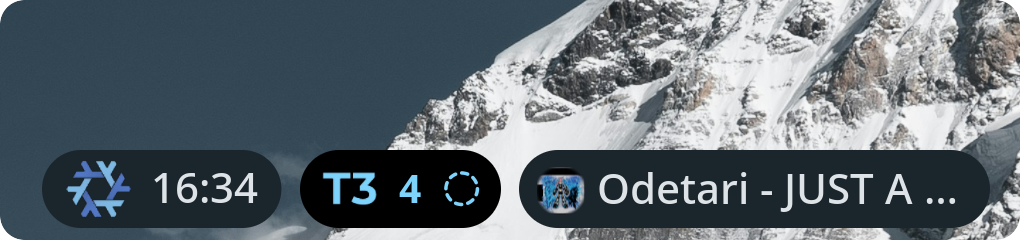
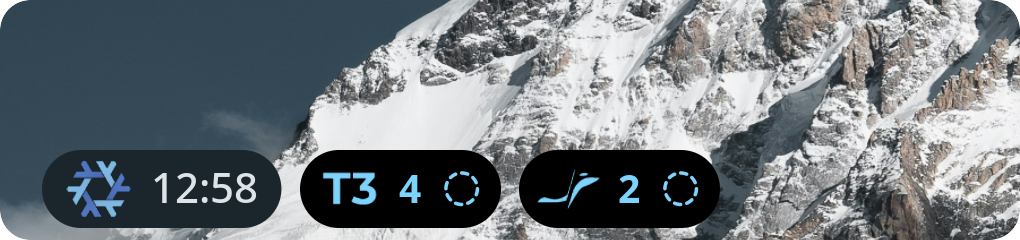
Show Orca support in the README
- Add Orca pill shots for working, approval and out of date
- Retake the bar shot with both pills
- Document the orca widget, its CLI requirement and how each pill counts
- Correct the T3 Code count description to match the thread-only count

diff --git a/README.md b/README.md
@@ -1,10 +1,10 @@
 <p align="center">
-  <img src="docs/images/bar.png" alt="Noctalia bar with Agent Pill between the clock and the media pill, showing 4 agents working" width="680">
+  <img src="docs/images/bar.png" alt="Noctalia bar with the T3 Code pill showing 4 agents and the Orca pill showing 2, next to the clock" width="680">
 </p>
 
 <h1 align="center">Agent Pill</h1>
 
-<p align="center">How many T3 Code agents are working, right on your Noctalia bar.</p>
+<p align="center">How many T3 Code and Orca agents are working, right on your Noctalia bar.</p>
 
 <p align="center">
   <img src="https://img.shields.io/badge/Noctalia-5-7dd3fc?style=flat-square&labelColor=000000" alt="Noctalia 5">
@@ -14,36 +14,49 @@
 
 ## What it shows
 
-| Pill | When |
-|---|---|
-| <img src="docs/images/working.png" alt="Working pill showing 4" height="30"> | Agents are running and nothing needs you. |
-| <img src="docs/images/approval.png" alt="Approval pill showing 4" height="30"> | A thread is waiting for your approval. |
-| <img src="docs/images/input.png" alt="Input pill showing 4" height="30"> | A thread is waiting for your answer. |
-| <img src="docs/images/out-of-date.png" alt="Out of date pill" height="30"> | The plugin can't read T3 Code's state. The tooltip has the error. |
+Each app gets its own pill. A pill hides when nothing is running.
 
-The count is active threads plus their subagents. Hover for each thread's status. The pill hides when nothing is running.
+| T3 Code | Orca | When |
+|---|---|---|
+| <img src="docs/images/working.png" alt="T3 Code working pill showing 4" height="30"> | <img src="docs/images/orca-working.png" alt="Orca working pill showing 4" height="30"> | Agents are running and nothing needs you. |
+| <img src="docs/images/approval.png" alt="T3 Code approval pill showing 4" height="30"> | <img src="docs/images/orca-approval.png" alt="Orca approval pill showing 4" height="30"> | An agent is waiting for your approval. |
+| <img src="docs/images/input.png" alt="T3 Code input pill showing 4" height="30"> | | A thread is waiting for your answer. |
+| <img src="docs/images/out-of-date.png" alt="T3 Code out of date pill" height="30"> | <img src="docs/images/orca-out-of-date.png" alt="Orca out of date pill" height="30"> | The plugin can't read the app's state. The tooltip has the error. |
+
+The T3 Code count is the active threads in your thread list. Subagents, side chats and workflow steps don't count, but a subagent's approval request shows on its thread.
+
+The Orca count is the agents that are working or waiting on you. Orca has one "needs you" state for permission prompts and questions, so both show as Approval.
+
+Hover a pill for each agent's status.
 
 ## Install
 
-Requires Noctalia 5 and `sqlite3` on your `PATH`.
+Requires Noctalia 5. The T3 Code pill needs `sqlite3` on your `PATH`. The Orca pill needs the Orca CLI, which Orca registers itself.
 
 ```sh
 noctalia msg plugins source add agent-pill git https://github.com/piexelated/agent-pill
 noctalia msg plugins enable piexelated/agent-pill
 ```
 
-Add Agent Pill to a bar in Noctalia's settings. For the black capsule shown above, define the widget in `config.toml` and put `t3_agents` in a bar section:
+Add the pills you want to a bar in Noctalia's settings. For the black capsules shown above, define the widgets in `config.toml` and put `t3_agents` and `orca_agents` in a bar section:
 
 ```toml
 [widget.t3_agents]
 type = "piexelated/agent-pill:agents"
 capsule_fill = "#000000"
+
+[widget.orca_agents]
+type = "piexelated/agent-pill:orca"
+capsule_fill = "#000000"
 ```
 
-## How it works?
+## How it works
 
-Every 2 seconds the widget runs one read-only query on `~/.t3/userdata/statev2.sqlite`. Works for now 
+Each pill polls every 2 seconds, and only while its app is running.
+
+- T3 Code: one read-only query on `~/.t3/userdata/statev2.sqlite`. That schema is internal to T3 Code, so an update can break the pill.
+- Orca: `orca agent list --json`.
 
 ## License
 
-MIT. Not affiliated with T3 Code or Noctalia; the T3 mark belongs to its owners.
+MIT. Not affiliated with T3 Code, Orca or Noctalia. Their marks belong to their owners.
